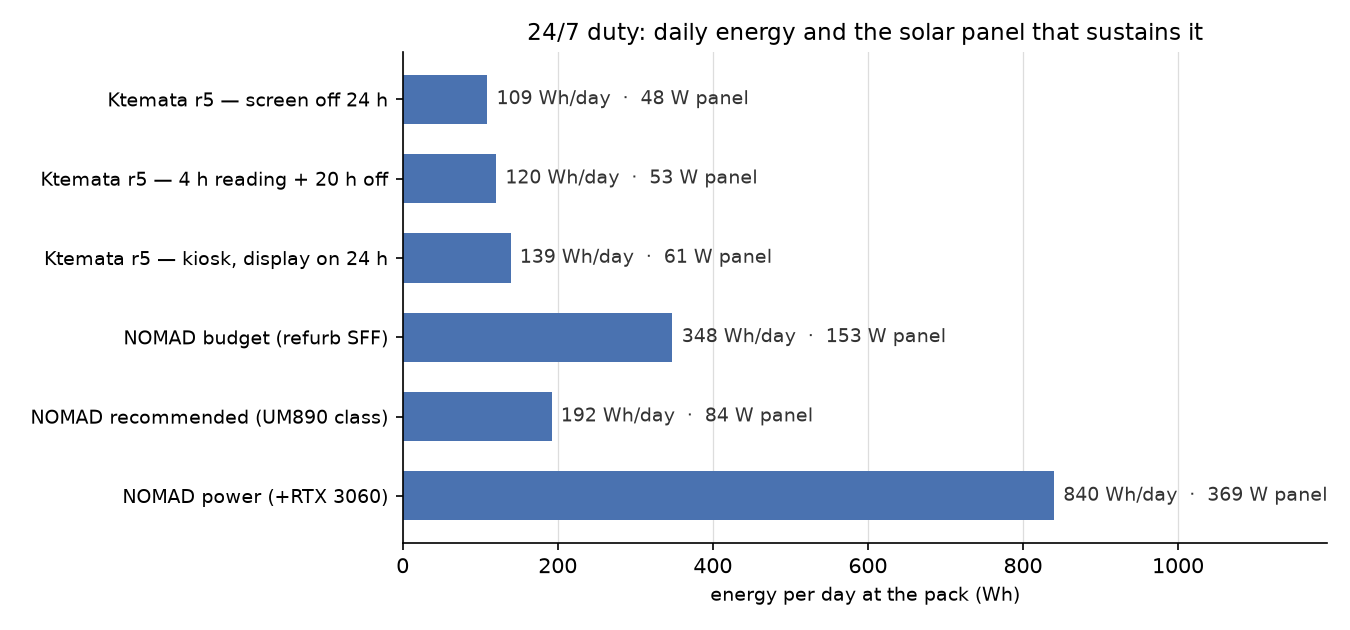
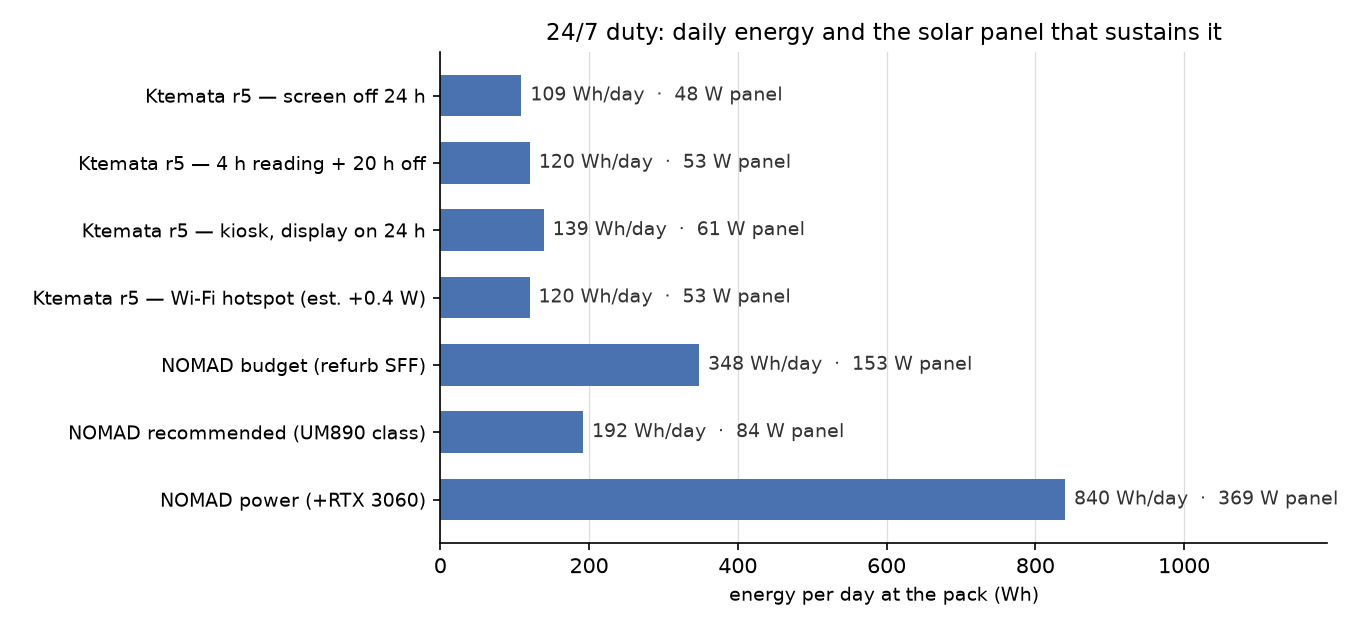
Note that the hotspot difference is policy, not hardware
The comparison implied Ktemata cannot serve a room. It can: the Pi 5
carries the same dual-band 2.4/5 GHz Wi-Fi radio as the Prepper Disk's
Pi 4B, and r5 only disables it in config.txt (dtoverlay=disable-wifi)
because this project's brief is an offline device with no networking.
hostapd + dnsmasq turns it into an access point in one configuration
change, serving the same ZIM files to the same browsers.

Scores that mode instead of asserting it: an estimated 0.4 W for the
access point takes r5 to 4.4 W and 220 mW per connected device against
the Prepper Disk's 152 mW - the same league, with r5 keeping its own
screen and battery. The comparison, the head-to-head row and the
buy-or-build advice are corrected accordingly, and the limitation that
remains is simplicity: the Prepper Disk's hotspot is already the
product.

PROFILES now carries the hotspot row so the POWER.md table and the
charts are generated, not typed. Both tables were re-synced against
power_chart.py output; the State table and the idle/load table are now
emitted verbatim.

Access-point draws for both machines are estimates, marked as such; the
Pi 4B idle figure remains measured.

diff --git a/work/scripts/power_chart.py b/work/scripts/power_chart.py
@@ -40,6 +40,12 @@ K = {
     "heavy (video/CPU)":  (12.5, "~8.8 W CPU-bound + display; thermally capped in r5's sealed host"),
 }
 
+# Ktemata's Pi 5 has the same 2.4/5 GHz radio on board. r5 ships with it DISABLED by policy
+# (dtoverlay=disable-wifi), not because the hardware cannot do it; hostapd + dnsmasq make it an
+# access point in one config change. AP_EXTRA_W is the estimate for that mode - same order as the
+# Prepper Disk's figure, and explicitly not measured on a Pi 5.
+AP_EXTRA_W = 0.40
+
 # ---------------- 24/7 duty profiles (at the 5 V rail) ----------------
 # Every platform is scored over the same 24 h. Ktemata has a display bolted to it, so it gets
 # a realistic profile; NOMAD is headless and serves over the LAN, so 100 % of its time is idle
@@ -51,6 +57,8 @@ PROFILES = {   # values are energy per day at the 5 V rail (Wh), not watts
                                             "4 h reading, display off otherwise"),
     "Ktemata r5 — kiosk, display on 24 h": (24 * K["idle, screen on"][0],
                                             "display always lit; the worst case for r5"),
+    "Ktemata r5 — Wi-Fi hotspot (est. +0.4 W)": (24 * (K["screen off, Pi up"][0] + AP_EXTRA_W),
+                                            "radio enabled by config, screen off"),
 }
 
 # ---------------- Project NOMAD, AI off (idle is unchanged by disabling AI) ----------------
@@ -108,7 +116,7 @@ def rows():
 
 
 def table_247():
-    print("| Platform (24/7, AI off) | Draw | Wh/day | Panel | Battery, 1 day | €/yr at €0.30 |")
+    print("| Platform (24/7, AI off) | Draw | Wh/day | Solar panel | Battery, 1 day | €/yr at €0.30/kWh |")
     print("|---|---|---|---|---|---|")
     for name, w, wh, note in rows():
         unit = "5 V" if name.startswith("Ktemata") else "wall"
@@ -201,6 +209,7 @@ def prepper_tables():
     rows_pd = [
         ("Prepper Disk (Pi 4B, 512 GB)", PREPPER["draw"], PREPPER["devices"]),
         ("Ktemata r5 (Pi 5, screen off)", K["screen off, Pi up"][0], 1),
+        ("Ktemata r5 as a Wi-Fi hotspot", K["screen off, Pi up"][0] + AP_EXTRA_W, PREPPER["devices"]),
         ("Ktemata r5 (4 h reading)", None, 1),
     ]
     for name, w, n in rows_pd:
@@ -232,11 +241,14 @@ def prepper_tables():
 
 
 def chart_prepper(path):
-    fig, ax = plt.subplots(figsize=(8.4, 3.4))
+    fig, ax = plt.subplots(figsize=(8.8, 3.8))
     names = ["Prepper Disk\nper connected device (of 20)",
+             "Ktemata r5 as a hotspot\nper connected device (of 20)",
              "Ktemata r5\nper reader (the device itself)"]
-    vals = [PREPPER["draw"] / PREPPER["devices"] * 1000, K["idle, screen on"][0] * 1000]
-    bars = ax.barh(names, vals, color=["#4a72b0", "#c4622d"], height=0.55)
+    vals = [PREPPER["draw"] / PREPPER["devices"] * 1000,
+            (K["screen off, Pi up"][0] + AP_EXTRA_W) / PREPPER["devices"] * 1000,
+            K["idle, screen on"][0] * 1000]
+    bars = ax.barh(names, vals, color=["#4a72b0", "#6b8fbf", "#c4622d"], height=0.5)
     for b, v in zip(bars, vals):
         ax.text(b.get_width() * 1.06, b.get_y() + b.get_height() / 2, f"{v:.0f} mW",
                 va="center", fontsize=10)

diff --git a/docs/COMPARISON-PREPPERDISK.md b/docs/COMPARISON-PREPPERDISK.md
@@ -13,8 +13,8 @@ everything else:
 | Source | this repository, MIT-style DIY | closed product, proprietary UI on Internet-in-a-Box |
 
 The honest summary: **the Prepper Disk is the better product; Ktemata is the better device for one
-specific job.** The Prepper Disk wins on price, size, weight, power, polish, support and the number
-of people it serves. Ktemata wins on independence from other devices, on storage and upgradeability,
+specific job.** The Prepper Disk wins on price, size, weight, power, polish and support — and on
+serving a room *by default*, though Ktemata has the same radio and only disables it by policy. Ktemata wins on independence from other devices, on storage and upgradeability,
 on being field-repairable, and on being a computer you can use *with no phone in the room*. Which of
 those matters depends entirely on whether you expect to have a working phone and a charged laptop
 with you.
@@ -38,11 +38,21 @@ less energy** (73 against 96 Wh/day), and it needs no display.
 
 ![Power per reader](prepperdisk_served.png)
 
-**It serves a room.** Up to 20 phones, tablets and laptops at once, over its own Wi-Fi. At 3.05 W
-that is ~152 mW of server power per connected device. Ktemata serves exactly one reader — the person
-holding it — at 5.1 W. For a family, a classroom, or a group in a shelter, the hotspot is
-categorically more useful. It also means the client devices keep their own batteries, screens and
-familiar browsers, so the failure of one phone costs you one user, not the library.
+**It serves a room out of the box.** Up to 20 phones, tablets and laptops at once, over its own
+Wi-Fi. At 3.05 W that is ~152 mW of server power per connected device, against 5.1 W for the person
+holding the Ktemata.
+
+This is worth stating precisely, because it is the one place where the two machines are **not**
+technically different. **Ktemata's Pi 5 has the same dual-band Wi-Fi radio on board as the Prepper
+Disk's Pi 4B.** r5 disables it by policy (`dtoverlay=disable-wifi` in `config.txt`, see the "Radios
+off" row in `README.md`) because the project's brief is an offline device with no networking. That
+is a **design choice, not a hardware limit**: `hostapd` + `dnsmasq` and a DHCP range turn it into a
+hotspot in one configuration change, serving the same ZIM files to the same browsers. The cost is
+about 0.4 W, which moves it to 4.4 W and **220 mW per connected device** — still in the Prepper
+Disk's league, and the machine keeps its own screen and battery while doing it.
+
+What the Prepper Disk still has over that mode is simplicity: the hotspot *is* the product, it is
+already configured, and there is no laptop-and-SSH step to get there.
 
 **No assembly, no printing, no wiring.** It arrives configured, tested, with a one-year warranty,
 60-day returns, 7,000+ units shipped and a 4.8-star review base. Ktemata r5 requires a 3D printer,
@@ -110,7 +120,7 @@ battery-percentage bug is a pull request, not a support ticket.
 | Draw, 24/7 | 4.0–5.1 W | 3.05 W | **Prepper Disk** ~¼ less energy/day |
 | Energy/day | 96–139 Wh | 73 Wh | **Prepper Disk** 1.3–1.9× |
 | Autonomy as shipped | 3.3–4.2 h | none (mains/USB bank) | **Ktemata** |
-| Readers served | 1 | up to 20 | **Prepper Disk** |
+| Readers served | 1 (20 as a hotspot, one config change) | up to 20 | tie, Prepper Disk by default |
 | Needs another device | no | yes | **Ktemata** |
 | Storage | 512 GB NVMe, upgradeable | 512 GB microSD, replaceable | **Ktemata** (durability) |
 | Setup effort | print, wire, flash, debug | plug in | **Prepper Disk** |
@@ -123,13 +133,15 @@ battery-percentage bug is a pull request, not a support ticket.
 
 - **Buy the Prepper Disk** if you want an offline library in a bag, will have phones or laptops with
   you, want it working in ten minutes, and would rather spend €271 than a weekend. It is the right
-  answer for most people, and the 20-device hotspot is genuinely more useful than a single screen.
+  answer for most people.
 - **Build Ktemata** if the point is a self-contained reading and computing device that works with
   nothing else in the room, if you want to own and repair the hardware, if 512 GB of NVMe and the
-  option to swap in a terabyte matters, or if the building is the point.
+  option to swap in a terabyte matters, or if the building is the point. If you also want the
+  hotspot, enable the radio — it is already there.
 - **Both** is not silly: €271 for the family hotspot plus a handheld for the person who walks out
   with the bag. They share the same ZIM files and the same Kiwix software, so the second copy costs
-  only storage.
+  only storage. Equally, one Ktemata can do both — enable the radio when a group needs it, leave it
+  off when the point is to be unfindable.
 
 ## Sources and caveats
 
@@ -138,7 +150,8 @@ battery-percentage bug is a pull request, not a support ticket.
   [DIY page](https://www.prepperdisk.com/pages/diy-prepper-disk-adv) for the parts-and-cost breakdown,
   and its product copy for the content list.
 - Pi 4B idle draw: [Dramble power benchmarks](https://www.pidramble.com/wiki/benchmarks/power-consumption.html),
-  540 mA at 5 V with nothing on USB. The 0.35 W access-point figure is an **estimate**, unmeasured.
+  540 mA at 5 V with nothing on USB. The 0.35 W (Prepper Disk) and 0.4 W (Ktemata) access-point
+  figures are **estimates**, unmeasured; the Pi 5's radio draws at the same order as the Pi 4B's.
 - Ktemata figures: `docs/POWER.md`, same 24/7 basis, same η = 0.88 / 0.85 DoD / 3.5 PSH / 0.65 derate
   assumptions. Prices from `BOM.md` (reconciled orders; r5's Peli 1200 is not yet in that total, so
   treat ≈ €635 as indicative).

diff --git a/docs/POWER.md b/docs/POWER.md
@@ -17,6 +17,10 @@ therefore deliberately unflattering duty profiles, not the handheld best case:
 NOMAD is headless and serves browsers over the LAN, so 100 % of its 24 h is idle or loaded with no
 display of its own attached. Its AI is off in every row.
 
+One r5 variant is scored as a hotspot: the Pi 5's Wi-Fi radio is on board and only disabled by policy
+(`dtoverlay=disable-wifi`), so `hostapd` + `dnsmasq` is a configuration change, not a hardware one.
+That row adds an estimated 0.4 W for the access point.
+
 ![Daily energy and the panel that sustains it](power_24_7.png)
 
 | Platform (24/7, AI off) | Draw | Wh/day | Solar panel | Battery, 1 day | €/yr at €0.30/kWh |
@@ -24,9 +28,10 @@ display of its own attached. Its AI is off in every row.
 | Ktemata r5 — screen off 24 h | 4.0 W (5 V) | 109 | 48 W | 128 Wh | €12 |
 | Ktemata r5 — 4 h reading + 20 h off | 4.4 W (5 V) | 120 | 53 W | 142 Wh | €13 |
 | Ktemata r5 — kiosk, display on 24 h | 5.1 W (5 V) | 139 | 61 W | 164 Wh | €15 |
+| Ktemata r5 — Wi-Fi hotspot (est. +0.4 W) | 4.4 W (5 V) | 120 | 53 W | 141 Wh | €13 |
 | NOMAD budget (refurb SFF) | 14.5 W (wall) | 348 | 153 W | 409 Wh | €38 |
 | NOMAD recommended (UM890 class) | 8.0 W (wall) | 192 | 84 W | 226 Wh | €21 |
-| NOMAD power (+RTX 3060) | 35 W (wall) | 840 | 369 W | 988 Wh | €92 |
+| NOMAD power (+RTX 3060) | 35.0 W (wall) | 840 | 369 W | 988 Wh | €92 |
 
 Panel and battery columns use 3.5 peak-sun-hours at 0.65 derate and 0.85 depth of discharge — both
 assumptions, see [Caveats](#caveats). Costs are the grid-price equivalent of the energy, not a
@@ -53,13 +58,13 @@ Component draws, from measurements where measurements exist:
 States and runtime. The pack column applies η = 0.88 and 0.85 usable depth of discharge, so 22.2 Wh
 gives ≈ 16.6 Wh at the 5 V rail:
 
-| State (r5) | 5 V rail | at the pack | runtime, 22.2 Wh (3.0 Ah) | runtime, 25.9 Wh (3.5 Ah) |
+| State (r5) | 5 V rail | at pack | runtime, 22.2 Wh | runtime, 25.9 Wh |
 |---|---|---|---|---|
-| Screen off, Pi up | 4.0 W | 4.5 W | 4.2 h | 4.8 h |
-| Idle, screen on | 5.1 W | 5.8 W | 3.3 h | 3.8 h |
-| Reading / Kiwix, light touch | 6.5 W | 7.4 W | 2.6 h | 3.0 h |
-| Browsing Wikipedia + maps | 8.7 W | 9.9 W | 1.9 h | 2.2 h |
-| Heavy (video, CPU stress) | 12.5 W | 14.2 W | 1.3 h | 1.5 h |
+| screen off, Pi up | 4.0 W | 4.5 W | 4.2 h | 4.8 h |
+| idle, screen on | 5.1 W | 5.8 W | 3.3 h | 3.8 h |
+| reading / Kiwix | 6.5 W | 7.4 W | 2.6 h | 3.0 h |
+| browsing + maps | 8.7 W | 9.9 W | 1.9 h | 2.2 h |
+| heavy (video/CPU) | 12.5 W | 14.2 W | 1.3 h | 1.5 h |
 
 `README.md` and `BOM.md` claim **2–2.5 h** of Pi 5 runtime. That holds and is the right conservative
 number: 22.2 Wh over 2–2.5 h is 8.9–11.1 W at the pack, i.e. the browsing and heavy rows. It
@@ -91,6 +96,13 @@ ThinkCentre M710q 11–13 W, M920q 12–15 W, M75q Gen 2 ≈ 12 W (same series);
 ([ServeTheHome](https://www.servethehome.com/minisforum-um890-pro-review-re-architected-amd-ryzen-8945hs-mini-pc/4/)).
 
 ![Idle versus load](power_profile.png)
+
+| Platform | Idle | Load | Ratio load/idle |
+|---|---|---|---|
+| Ktemata r5 | 5.1 W (5 V) | 12.5 W (5 V) | 2.5x |
+| NOMAD budget (refurb SFF) | 14.5 W | 50 W | 3.4x |
+| NOMAD recommended (UM890 class) | 8.0 W | 85 W | 10.6x |
+| NOMAD power (+RTX 3060) | 35.0 W | 250 W | 7.1x |
 
 The shape matters more than any single number. The recommended build **idles lower than a
 refurbished SFF PC** (8 W against 14.5 W) yet **loads 10.6× above its own idle** (85 W) where the
